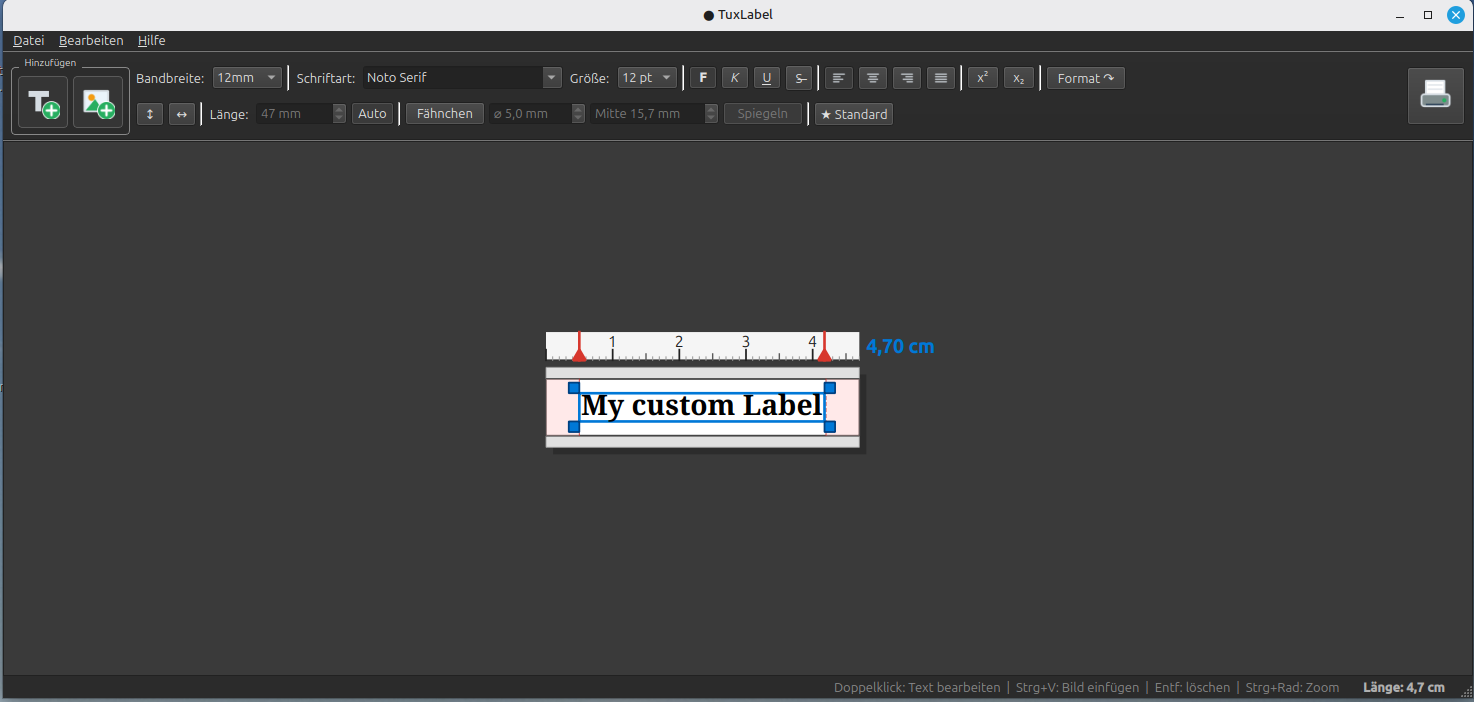
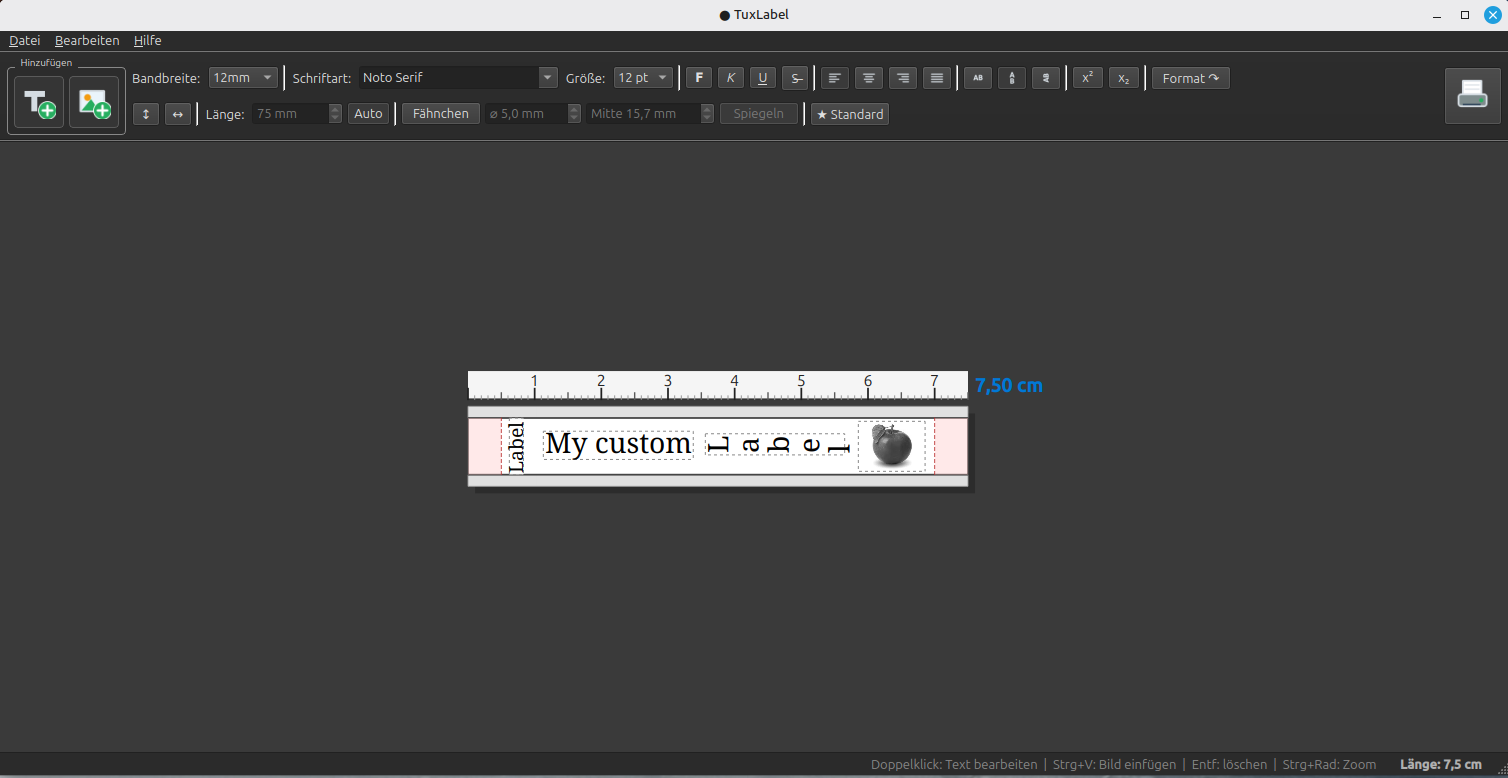
Update screenshot and regenerate social preview card
The new screenshot shows all three writing directions side by side on
one label plus an image, so the feature added in 1.1.0 is visible at a
glance instead of only described.

docs/social-preview.png is generated from that screenshot, so it was
stale and has been rebuilt. Its automatic crop still locates the right
region (ruler, label and length readout) without adjustment.

The README alt text described only "a 12 mm label"; it now names what
the picture actually shows.

Changed region(s): [[0.0, 0.0, 1.0, 1.0], [0.3121, 0.4487, 0.6866, 0.6581]]

diff --git a/README.md b/README.md
@@ -8,7 +8,7 @@
 
 *(English version below — [jump to English](#tuxlabel-english))*
 
-![TuxLabel – Hauptfenster im dunklen Design mit einem 12-mm-Etikett](docs/screenshot.png)
+![TuxLabel – Hauptfenster im dunklen Design: ein 12-mm-Etikett mit Text in allen drei Schriftrichtungen und einem Bild](docs/screenshot.png)
 
 TuxLabel ist ein Desktop-Programm für Linux, mit dem sich Etiketten für den
 Brother PT-P700 gestalten und direkt über CUPS ausdrucken lassen — inklusive
